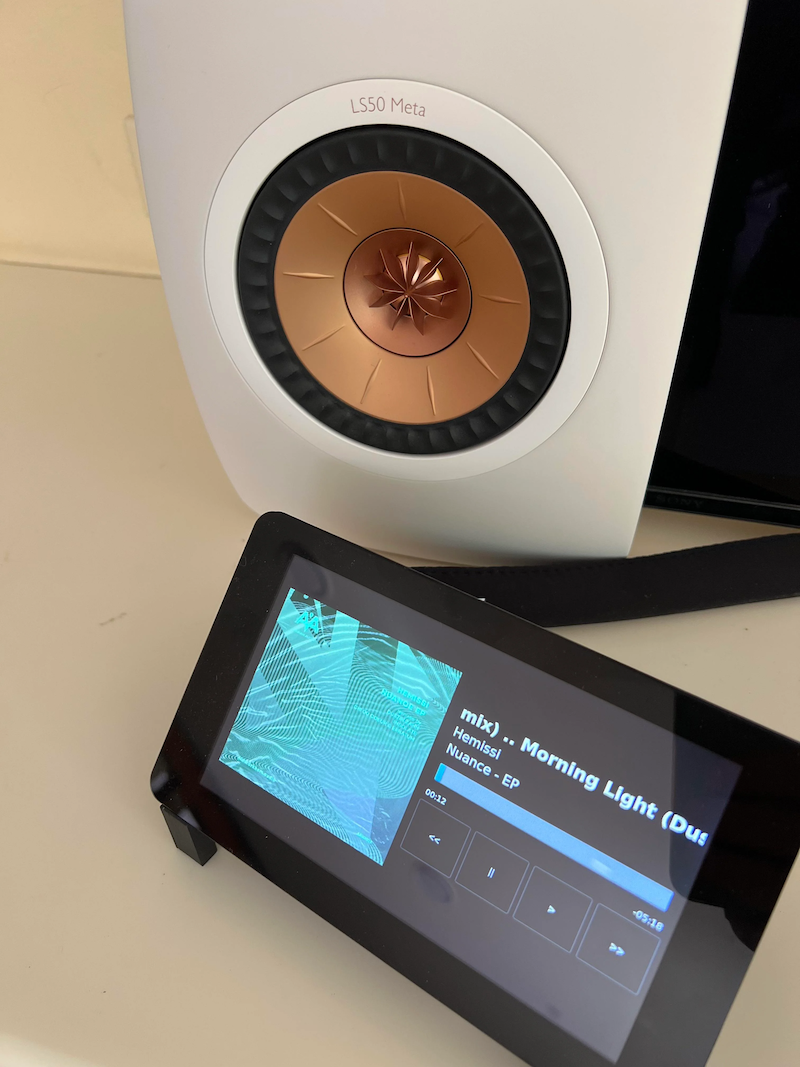
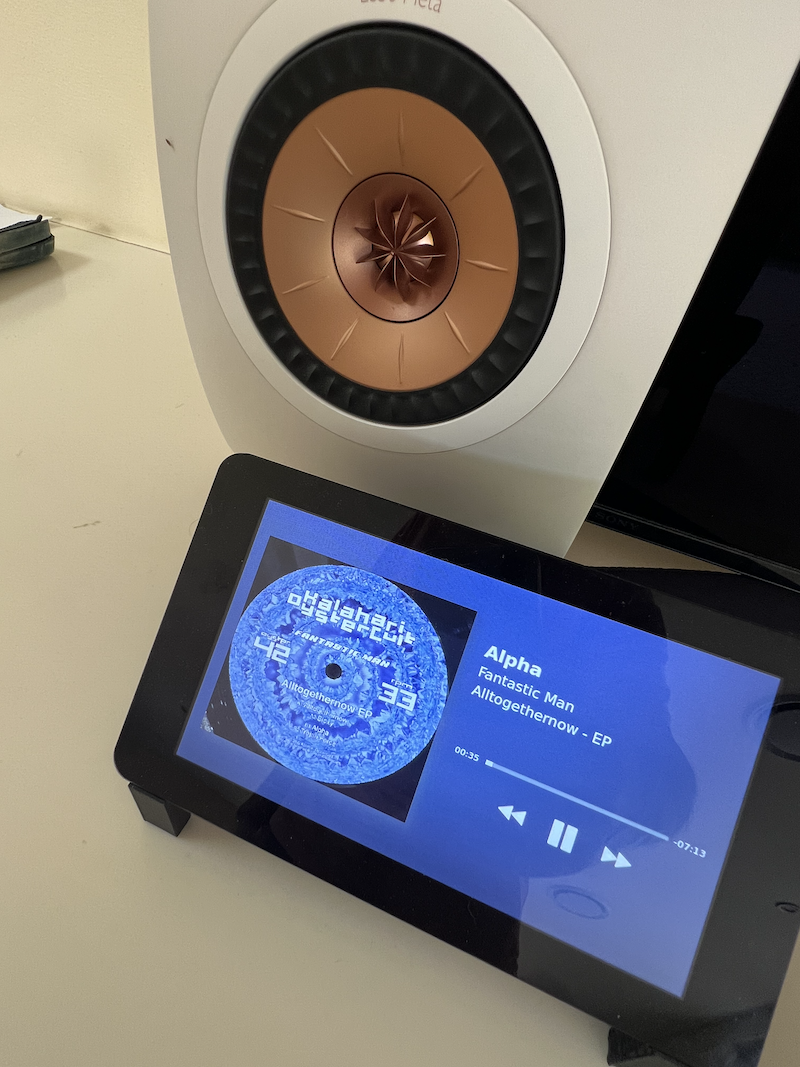
UI redesign
Alter UI to look more IOS-like. Sample art jpg for background gradient.

diff --git a/shairport-display-qt.py b/shairport-display-qt.py
@@ -1,10 +1,12 @@
 #!/usr/bin/env /usr/bin/python3
 
-from PyQt5.QtWidgets import QApplication, QPushButton, QLabel, QWidget, QProgressBar, QDesktopWidget
+from PyQt5.QtWidgets import QApplication, QPushButton, QLabel, QWidget, QProgressBar, QDesktopWidget, QStyle, QGraphicsDropShadowEffect
 from PyQt5 import uic
 
-from PyQt5.QtCore import QTimer, Qt, QPropertyAnimation
-from PyQt5.QtGui import QPixmap, QFont
+from PyQt5.QtCore import QTimer, Qt, QPropertyAnimation, QSize
+from PyQt5.QtGui import QPixmap, QFont, QPalette, QLinearGradient, QBrush, QColor, QIcon
+
+from PIL import Image
 
 import dbus
 import dbus.mainloop.glib
@@ -15,6 +17,7 @@ import os
 import time
 import logging
 import subprocess
+import colorsys
 
 class ShairportSyncClient(QApplication):
 
@@ -24,6 +27,8 @@ class ShairportSyncClient(QApplication):
     self.Title = None
     self.Artist = None
     self.Album = None
+
+    self.playing = False
 
     super().__init__(argv)
 
@@ -74,7 +79,7 @@ class ShairportSyncClient(QApplication):
     self.window = uic.loadUi(os.path.dirname(argv[0]) + "/shairport-display.ui")
     # self.window.resize(QDesktopWidget().availableGeometry().size());
     self.window.setWindowFlag(Qt.FramelessWindowHint)
-    self.window.setStyleSheet("background-color : white; color : black;");
+    #self.window.setStyleSheet("background-color : black; color : black;");
     self.window.setAutoFillBackground(True);
     self.window.resizeEvent = self.onResize
     self.window.keyPressEvent = self.keyPressEvent
@@ -82,14 +87,52 @@ class ShairportSyncClient(QApplication):
     self.window.setCursor(Qt.BlankCursor)
     self.window.show()
 
+    self.metadata = { }
+
+    self.CW = self.window.findChild(QWidget, 'centralwidget')
+    self.CW.setStyleSheet("#centralwidget {background: black}");
+
+    #self.CW.setStyleSheet("");
+    #self.log.debug(self.CW)
+    
+    #self.CW.setPalette(p)
+
     self.B1 = self.window.findChild(QPushButton, 'b1')
     self.B2 = self.window.findChild(QPushButton, 'b2')
     self.B3 = self.window.findChild(QPushButton, 'b3')
-    self.B4 = self.window.findChild(QPushButton, 'b4')
+
+    self.B1.setText("")
+    self.B1.setIcon(QIcon("fff.png"))
+    self.B1.setIconSize(QSize(40, 40))
+
+    #pixmapi = getattr(QStyle, "SP_MediaSeekBackward")
+    #pixmapi.fill((QColor('red')))
+    #pixmapi.setMask(mask)
+    #icon = self.window.style().standardIcon(pixmapi)
+    #self.B1.setIcon(icon)
+    #self.B1.setIconSize(QSize(40, 40))
+
+    self.B3.setText("")
+    self.B3.setIcon(QIcon("ff.png"))
+    self.B3.setIconSize(QSize(40, 40))
+
+    self.B2.setText("")
+    if self.playing:
+       self.B2.setIcon(QIcon("pause.png"))
+    else:
+       self.B2.setIcon(QIcon("play.png"))
+
+    self.B2.setIconSize(QSize(40, 40))
+
+    #self.B4 = self.window.findChild(QPushButton, 'b4')
     self.B1.clicked.connect(self.b1)
     self.B2.clicked.connect(self.b2)
     self.B3.clicked.connect(self.b3)
-    self.B4.clicked.connect(self.b4)
+    # self.B4.clicked.connect(self.b4)
+
+    #self.B1.setStyleSheet("border-radius: 50px; border: 2px solid white; color:white; background:grey");
+    #self.B2.setStyleSheet("border-radius: 50px; border: 2px solid white; color:white; background:grey");
+    #self.B3.setStyleSheet("border-radius: 50px; border: 2px solid white; color:white; background:grey");
 
     self.Art = self.window.findChild(QLabel, 'CoverArt')
 
@@ -102,11 +145,11 @@ class ShairportSyncClient(QApplication):
     self.Album.setFont(QFont("Montserrat", 16, QFont.Normal))
 
     self.ProgressBar = self.window.findChild(QProgressBar, 'ProgressBar')
+    self.ProgressBar.setMaximumHeight(7)
+
     # self.ProgressBar.setStyleSheet("QProgressBar {border: 0px solid gray; height: 2px; max-height:2px;}")
     # self.ProgressBar.setStyleSheet("QProgressBar::chunk {background: light blue;}")
-
     # self.animation = QPropertyAnimation(self.ProgressBar, b"value")
-
     self.ProgressBar.setRange(0, 100)
 
     self.Remaining = self.window.findChild(QLabel, 'Remaining')
@@ -156,30 +199,41 @@ class ShairportSyncClient(QApplication):
 
   def b2(self):
     self.log.debug("pause")
-    self.Remote().Pause()
+    self.Remote().PlayPause()
 
   def b3(self):
-    self.log.debug("play")
-    self.Remote().Play()
-
-  def b4(self):
     self.log.debug("next")
     self.Remote().Next()
 
   def event(self, e):
     return QApplication.event(self, e)
 
+  def _get_sps_info(self, path, item):
+      try:
+          result = self._bus.call_blocking(
+              "org.gnome.ShairportSync",
+              "/org/gnome/ShairportSync",
+              "org.freedesktop.DBus.Properties",
+              "Get",
+              "ss",
+              ["org.gnome.ShairportSync" + path, item],
+          )
+      except dbus.exceptions.DBusException:
+          self.log.warning("_get_sps_info failed %s %s", path, item)
+          return None
+      return result
+
   def _tickEvent(self):
 
-    if len(self.metadata["title"]) > 22:
+    if "title" in self.metadata and len(self.metadata["title"]) > 22:
       newtitle = self.rotate(self.metadata["title"], self.incr % len(self.metadata["title"]))
       self.Title.setText(newtitle)
 
-    if len(self.metadata["album"]) > 25:
+    if "album" in self.metadata and len(self.metadata["album"]) > 25:
       newtitle = self.rotate(self.metadata["album"], self.incr % len(self.metadata["album"]))
       self.Album.setText(newtitle)
 
-    if len(self.metadata["artist"]) > 25:
+    if "artist" in self.metadata and len(self.metadata["artist"]) > 25:
       newtitle = self.rotate(self.metadata["artist"], self.incr % len(self.metadata["artist"]))
       self.Artist.setText(newtitle)
 
@@ -311,12 +365,46 @@ class ShairportSyncClient(QApplication):
                                                             bus_name='org.gnome.ShairportSync',
                                                             member_keyword='signal')
 
+
+  def average_image_color(self, filename):
+      i = Image.open(filename)
+      h = i.histogram()
+  
+      # split into red, green, blue
+      r = h[0:256]
+      g = h[256:256*2]
+      b = h[256*2: 256*3]
+
+      # perform the weighted average of each channel:
+      # the *index* is the channel value, and the *value* is its weight
+      return (
+          sum( i*w for i, w in enumerate(r) ) / sum(r),
+          sum( i*w for i, w in enumerate(g) ) / sum(g),
+          sum( i*w for i, w in enumerate(b) ) / sum(b)
+      )
+
+  def rgb_to_hex(self, r, g, b):
+    return '#%02x%02x%02x' % (r, g, b)
+
+  def color_variant(self, hex_color, brightness_offset=1):
+      """ takes a color like #87c95f and produces a lighter or darker variant """
+      if len(hex_color) != 7:
+          raise Exception("Passed %s into color_variant(), needs to be in #87c95f format." % hex_color)
+      rgb_hex = [hex_color[x:x+2] for x in [1, 3, 5]]
+      new_rgb_int = [int(hex_value, 16) + brightness_offset for hex_value in rgb_hex]
+      new_rgb_int = [min([255, max([0, i])]) for i in new_rgb_int] # make sure new values are between 0 and 255
+      return self.rgb_to_hex(int(new_rgb_int[0]), int(new_rgb_int[1]), int(new_rgb_int[2]))
+      # hex() produces "0x88", we want just "88"
+
   def _set_metadata(self, metadata):
 
     self.log.debug("Metadata available")
 
     for key in metadata:
       self.log.info("%s: %s", key, metadata[key])
+
+    if len(metadata["title"]) == 0:
+      return
 
     self.metadata = metadata
     self.Title.setText(metadata["title"])
@@ -325,6 +413,9 @@ class ShairportSyncClient(QApplication):
     self.ProgressBar.setVisible(True)
     self.Elapsed.setVisible(True)
     self.Remaining.setVisible(True)
+    self.B1.setVisible(True)
+    self.B2.setVisible(True)
+    self.B3.setVisible(True)
 
     size = self.window.size();
 
@@ -333,42 +424,61 @@ class ShairportSyncClient(QApplication):
     self.Album.setMaximumWidth(int(size.width() / 2))
 
     self.ArtPath = metadata["art"]
-    pixmap = QPixmap(self.ArtPath)
+    if len(self.ArtPath):
+      self.Art.setVisible(True)
+      dominantcolor = self.average_image_color(self.ArtPath)
+      (h, l, s) = colorsys.rgb_to_hls(dominantcolor[0], dominantcolor[1], dominantcolor[2])
+      l = l * 0.80
+      l2 = l * 0.50
+      (r, g, b) = colorsys.hls_to_rgb(h, l, s)
+      (r2, g2, b2) = colorsys.hls_to_rgb(h, l2, s)
+      col1 = self.rgb_to_hex(int(r), int(g), int(b))
+      col2 = self.rgb_to_hex(int(r2), int(g2), int(b2))
+      self.CW.setStyleSheet("#centralwidget {background: qlineargradient(x1:0 y1:0, x2:0 y2:1, stop:0 "+col1+", stop:1 "+col2+");}");
 
-    if pixmap.width() >= pixmap.height():
-      self.Art.setPixmap(pixmap.scaledToWidth(int((size.width() / 2) - 40)))
+      pixmap = QPixmap(self.ArtPath)
+      if pixmap.width() >= pixmap.height():
+        self.Art.setPixmap(pixmap.scaledToWidth(int((size.width() / 2) - 40)))
+      else:
+        self.Art.setPixmap(pixmap.scaledToHeight(int((size.width() / 2) - 40)))
+      shadow = QGraphicsDropShadowEffect()
+      shadow.setBlurRadius(40)
+      self.Art.setGraphicsEffect(shadow)
     else:
-      self.Art.setPixmap(pixmap.scaledToHeight(int((size.width() / 2) - 40)))
-
+      self.Art.setVisible(False)
+      
     self.log.info("length: %s", str(datetime.timedelta(microseconds=metadata["length"])))
 
   def _stop_timer(self):
-
     if self.timer is not None:
       self.log.debug("stopping timer")
       self.timer.stop()
+      self.timer = None
 
   def _start_timer(self):
-
-    self.log.debug("starting timer")
-    self.timer = QTimer()
-    self.timer.setTimerType(Qt.PreciseTimer)
-    self.timer.timeout.connect(self._tickEvent)
-    self.timer.start(self.duration)
+    if self.timer is None:
+      self.log.debug("starting new timer")
+      self.timer = QTimer()
+      self.timer.setTimerType(Qt.PreciseTimer)
+      self.timer.timeout.connect(self._tickEvent)
+      self.timer.start(self.duration)
 
   def _clear_display(self):
 
     self._set_backlight(False)
 
     self.Art.clear()
-
     self.Title.clear()
     self.Artist.clear()
     self.Album.clear()
-
     self.Elapsed.clear();
     self.Remaining.clear();
     self.ProgressBar.setVisible(False);
+    self.Elapsed.setVisible(False)
+    self.Remaining.setVisible(False)
+    self.B1.setVisible(False);
+    self.B2.setVisible(False)
+    self.B3.setVisible(False)
 
   def _display_metadata(self, *args, **kwargs):
 
@@ -420,14 +530,26 @@ class ShairportSyncClient(QApplication):
 
       if 'PlayerState' in data:
         state = data['PlayerState']
-        self.log.info("PlayerState: %s", state)
+        if state == "Playing":
+          if self.playing == False:
+            self._start_timer()
+            self.log.debug("SET PAUSE")
+            self.B2.setIcon(QIcon("pause.png"))
+          self.playing = True
+        else:
+          if self.playing:
+            self._stop_timer()
+            self.log.debug("SET PLAY")
+            self.B2.setIcon(QIcon("play.png"))
+          self.playing = False
 
-        if state == "Stopped":
-          self._stop_timer()
-        elif state == "Playing":
-          self._start_timer()
-        elif state == "Paused":
-          pass
+        #self.log.info("PlayerState: %s", state)
+        #if state == "Stopped":
+        #  self._stop_timer()
+        #elif state == "Playing":
+        #  self._start_timer()
+        #elif state == "Paused":
+        #  pass
 
     if interface == "org.gnome.ShairportSync":
 

diff --git a/README.md b/README.md
@@ -3,6 +3,7 @@
 A simple app to be used with [shairport-sync](https://github.com/mikebrady/shairport-sync) with the pi 4b plus the official Raspberry Pi 7" 800 pixel touchscreen
 
 ![Example App Photo](shairport-display.png)
+![Enclosure Photo](shairport-display-back.png)
 
 Table of Contents
 =================
@@ -27,7 +28,7 @@ A UI that displays the current track for shairport-sync is an obvious need for a
 ## Changes from original
 
 - Modification of ui to all black background by default.
-- Addition of Previous / Play / Pause / Next buttons
+- Addition of Previous / PlayPause / Next buttons
 - Addition of auto-scrolling for the text fields that exceed field length.
 - Removal of the window title bar (it is, after all, full screen)
 - Set screen cursor to BlankCursor (it is, after all, a touch screen)
